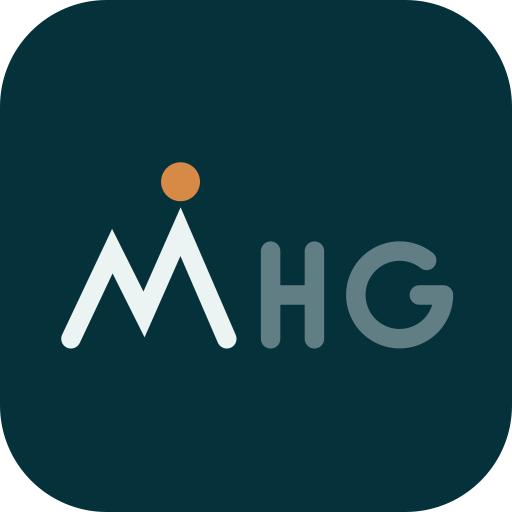
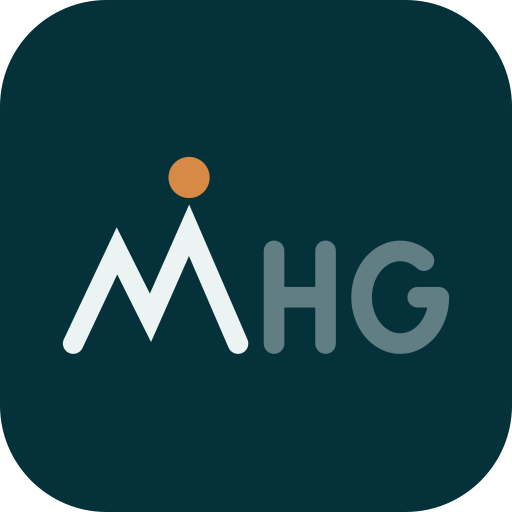
Set the acronym letters in one typeface and simplify the small G
Written in Water: the H was condensed while the G was a full circle, so
the pair did not read as the same face. The G is now an oval matching the
H's proportions, the H is a touch wider, and both sit closer together and
closer to the mountain. The mark narrows from 184 to 174 units.

Goal in the Water: at favicon sizes the reflected G has no definition to
keep, so the small glyph is the peaks over a solid amber point. App icons
and the avatar still carry the full mark with the G.

The three existing variants' asset files are unchanged.

diff --git a/src/brand/marks.ts b/src/brand/marks.ts
@@ -135,13 +135,13 @@ export const MARKS: Record<LogoVariant, MarkDefinition> = {
     label: 'Written in Water — H and G beside the mountain',
     description:
       'Summit M with the H and G standing alongside it on the shoreline, spelling the acronym.',
-    note: 'The acronym mark. The letters share the mountain’s stroke and sit level with its lower peak, drawn at 40% so they keep the translucent, written-on-water quality of the original; the G is a true single-stroke G with an inward spur. Below 48 px it tiers down to Summit M alone.',
-    width: 184,
+    note: 'The acronym mark. The letters share the mountain’s stroke and sit level with its lower peak, drawn at 40% so they keep the translucent, written-on-water quality of the original. The G is an oval rather than a circle so it matches the H’s width as one typeface would, and the pair sits close in against the mountain. Below 48 px it tiers down to Summit M alone.',
+    width: 174,
     elements: [
       ...SUMMIT_ELEMENTS,
       {
         kind: 'path',
-        d: 'M 98 82 L 98 46 M 98 64 L 116 64 M 116 46 L 116 82',
+        d: 'M 94 82 L 94 46 M 94 64 L 114 64 M 114 46 L 114 82',
         role: 'form',
         strokeWidth: 8,
         linecap: 'round',
@@ -150,7 +150,7 @@ export const MARKS: Record<LogoVariant, MarkDefinition> = {
       },
       {
         kind: 'path',
-        d: 'M 162.1 49.8 A 18 18 0 1 0 169 64 L 159.1 64',
+        d: 'M 152.2 49.8 A 15 18 0 1 0 158 64 L 149.8 64',
         role: 'form',
         strokeWidth: 8,
         linecap: 'round',
@@ -164,7 +164,7 @@ export const MARKS: Record<LogoVariant, MarkDefinition> = {
     label: 'Goal in the Water — the G reflected below',
     description:
       'The mountain and an H stand on the shore; what reflects in the water beneath is the amber G.',
-    note: 'The narrative mark: look into the water and the goal is what you find. As in the original, the G is reflected beneath the point where the mountain meets the H, at 80% amber so it reads as submerged without going pale. Below 48 px it tiers down to the peaks over the reflected G.',
+    note: 'The narrative mark: look into the water and the goal is what you find. As in the original, the G is reflected beneath the point where the mountain meets the H, at 80% amber so it reads as submerged without going pale. Below 48 px it tiers down to the peaks over a single amber point — the G has no definition to keep at that size.',
     elements: [
       {
         kind: 'path',
@@ -202,15 +202,7 @@ export const MARKS: Record<LogoVariant, MarkDefinition> = {
         linecap: 'round',
         linejoin: 'round',
       },
-      {
-        kind: 'path',
-        d: 'M 53.5 70.9 A 9 9 0 1 0 57 78 L 51.6 78',
-        role: 'accent',
-        strokeWidth: 7,
-        linecap: 'round',
-        linejoin: 'round',
-        opacity: 0.8,
-      },
+      { kind: 'circle', cx: 48, cy: 76, r: 8.5, role: 'accent' },
     ],
   },
 }
